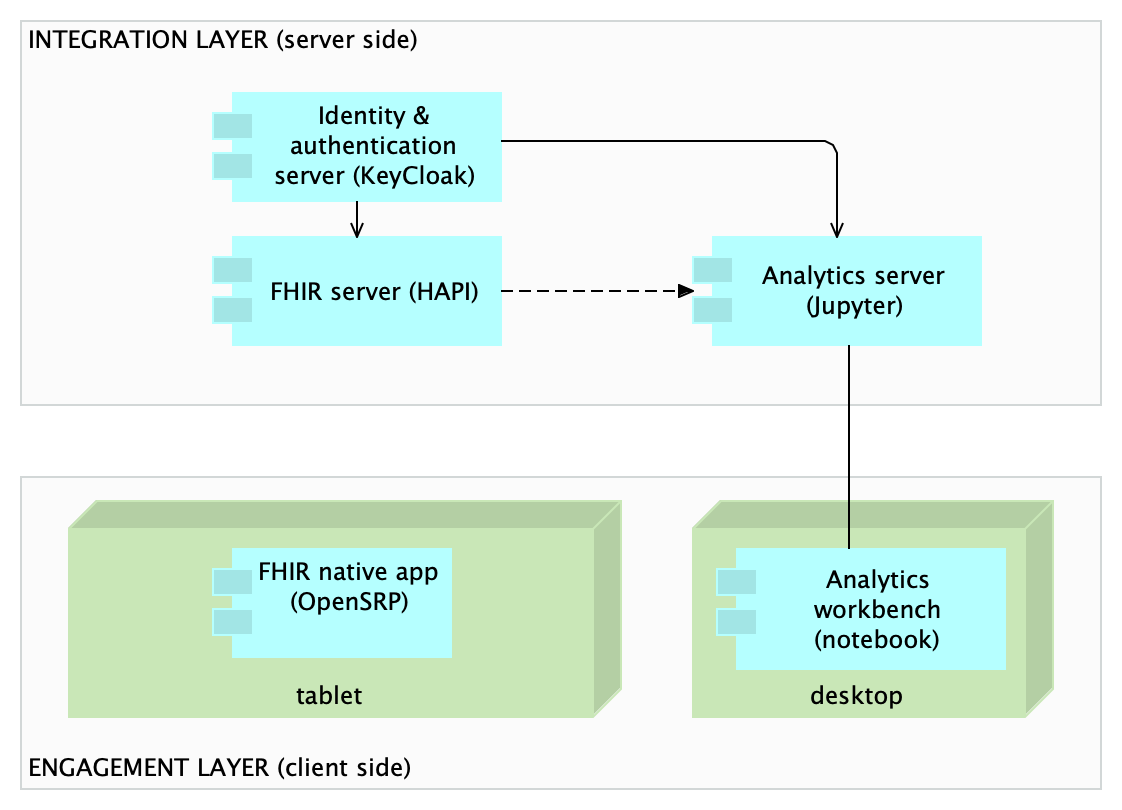
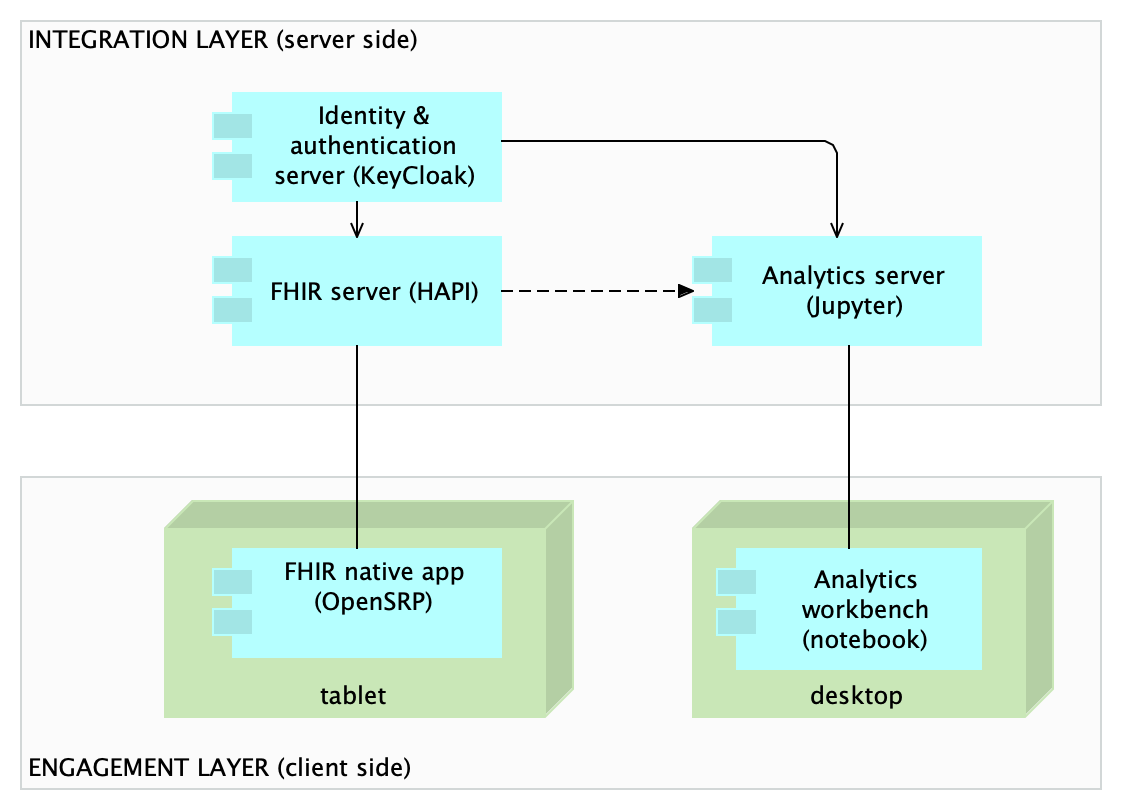
Update solution design

diff --git a/docs/id-690b66a0f4024b0fb014f7e801f7ae23/elements/id-e7940186345043c786f6ed40f4dd4683.html b/docs/id-690b66a0f4024b0fb014f7e801f7ae23/elements/id-e7940186345043c786f6ed40f4dd4683.html
@@ -1,0 +1,79 @@
+<!DOCTYPE HTML PUBLIC "-//W3C//DTD HTML 4.01 Transitional//EN" "http://www.w3.org/TR/html4/loose.dtd">
+<html class="frame" lang="en">
+<head>
+	<meta http-equiv="Content-Type" content="text/html;charset=utf-8">
+	<title></title>
+
+	<!-- JQUERY (use 1.x branch to be compatible with IE 6/7/8) -->
+	<script type="text/javascript" src="../../lib/jquery/js/jquery-1.11.2.min.js"></script>
+	<!-- BOOTSTRAP -->
+	<link type="text/css" rel="stylesheet" href="../../lib/bootstrap/css/bootstrap.min.yeti.css">
+	<script type="text/javascript" src="../../lib/bootstrap/js/bootstrap-3.3.2.min.js"></script>
+	<!-- REPORT SPECIFIC -->
+	<link type="text/css" rel="stylesheet" href="../../css/model.css">
+	<link type="text/css" rel="stylesheet" href="../../css/i18n.css">
+	<script type="text/javascript" src="../../js/frame.js"></script>
+	<script type="text/javascript" src="../../js/imageMapResizer.min.js"></script>
+</head>
+
+<body>
+	<div class="panel panel-default root-panel">
+
+		<div class="panel-heading root-panel-heading">
+            <!-- Name -->
+               <b class="i18n-elementtype-AssociationRelationship"></b>
+            <!-- If a View with Viewpoint -->
+			   (<span class="i18n-elementtype-AssociationRelationship"></span>)
+			   <a class="glyphicon glyphicon-info-sign" id="hint-AssociationRelationship" target="hint"></a>
+		</div>
+
+		<div class="panel-body root-panel-body">
+		    <!-- If this is a digram model (has children and no bounds) show the image -->
+
+			<div role="tabpanel">
+				<!-- Nav tabs -->
+				<ul class="nav nav-tabs" role="tablist">
+                    <!-- Purpose / Documentation / Content -->
+					   <li role="presentation" class="active"><a href="#documentation" aria-controls="documentation" role="tab" data-toggle="tab" class="i18n-documentation"></a></li>
+
+                    <!-- Properties -->
+                    <li role="presentation"><a href="#properties" aria-controls="properties" role="tab" data-toggle="tab" class="i18n-properties"></a></li>
+
+				</ul>
+
+				<!-- Tab panes -->
+				<div class="tab-content">
+					<div role="tabpanel" class="tab-pane active" id="documentation">
+							<br>
+							<b class="i18n-relation-source"></b>
+								<a href="../elements/id-9b17db97efc44b18bf2f59b6caa15cba.html" target="element">
+									FHIR native app (OpenSRP)
+								</a>
+							<br>
+							<b class="i18n-relation-target"></b>
+								<a href="../elements/id-83d1a8c7b3fb4cd18c77c8c075b83e35.html" target="element">
+									FHIR server (HAPI)
+								</a>
+							<br>
+							<br>
+						<div class="convertlinks documentation" style="white-space:pre-wrap"></div>
+					</div>
+					<div role="tabpanel" class="tab-pane" id="properties">
+						<table class="table table-striped table-hover table-condensed">
+							<thead>
+								<tr>
+									<th class="i18n-key"></th>
+									<th class="i18n-value"></th>
+								</tr>
+							</thead>
+							<tbody>
+							</tbody>
+						</table>
+					</div>
+			  </div>
+			</div>
+		</div>
+	</div>
+	<script type="text/javascript">imageMapResize();</script>
+</body>
+</html>

diff --git a/docs/id-690b66a0f4024b0fb014f7e801f7ae23/views/id-6e4ea18f657c4496b2c22b4d96d46578.html b/docs/id-690b66a0f4024b0fb014f7e801f7ae23/views/id-6e4ea18f657c4496b2c22b4d96d46578.html
@@ -33,12 +33,12 @@
 		    <!-- If this is a digram model (has children and no bounds) show the image -->
 			   <img class="diagram" src="../images/id-6e4ea18f657c4496b2c22b4d96d46578.png" alt="Solution design - FHIR native" usemap="#id-6e4ea18f657c4496b2c22b4d96d46578map"/>
 			   <map name="id-6e4ea18f657c4496b2c22b4d96d46578map">
-				  						<area shape="rect" coords="716,548,1006,670" href="../elements/id-d295ec7d391b47e4aa6af11d417d89bb.html"  target="element">
+				  						<area shape="rect" coords="716,548,982,670" href="../elements/id-d295ec7d391b47e4aa6af11d417d89bb.html"  target="element">
 
 				  				<area shape="rect" coords="692,500,1054,718" href="../elements/id-8f479b1fd8f340bdb697aec2c45437a8.html"  target="element">
-				  						<area shape="rect" coords="212,548,452,658" href="../elements/id-9b17db97efc44b18bf2f59b6caa15cba.html"  target="element">
+				  						<area shape="rect" coords="212,548,502,658" href="../elements/id-9b17db97efc44b18bf2f59b6caa15cba.html"  target="element">
 
-				  				<area shape="rect" coords="68,500,622,718" href="../elements/id-2d840145f23c492ca4c12069c0972139.html"  target="element">
+				  				<area shape="rect" coords="164,500,574,718" href="../elements/id-2d840145f23c492ca4c12069c0972139.html"  target="element">
 
 				          <area shape="rect" coords="20,476,1102,790" href="../objects/id-81148f1352aa42f991f5244d6b322329.html" target="element" >
 				  				<area shape="rect" coords="212,92,502,202" href="../elements/id-1a2484831fa74ca99f09a0a3a4c10aa3.html"  target="element">
@@ -207,6 +207,14 @@ Data from CoT MySQL database is transformed with Python CLI transformer is speci
 																				<td> <a href="../elements/id-2d840145f23c492ca4c12069c0972139.html" target="element"> tablet </a> </td>
 																				<td> <a href="../elements/id-9b17db97efc44b18bf2f59b6caa15cba.html" target="element"> FHIR native app (OpenSRP) </a> </td>
 																			</tr>
+
+																					<tr>
+																						<td> <a href="../elements/id-e7940186345043c786f6ed40f4dd4683.html" target="element">  </a> </td>
+																						<td> <a href="../elements/id-e7940186345043c786f6ed40f4dd4683.html" target="element" class="i18n-elementtype-AssociationRelationship">
+																						</a> </td>
+																						<td> <a href="../elements/id-9b17db97efc44b18bf2f59b6caa15cba.html" target="element"> FHIR native app (OpenSRP) </a> </td>
+																						<td> <a href="../elements/id-83d1a8c7b3fb4cd18c77c8c075b83e35.html" target="element"> FHIR server (HAPI) </a> </td>
+																					</tr>
 
 													
 																			<tr>

diff --git a/docs/id-690b66a0f4024b0fb014f7e801f7ae23/elements/model.html b/docs/id-690b66a0f4024b0fb014f7e801f7ae23/elements/model.html
@@ -273,6 +273,8 @@
 										dataRelationships.push({id:"id-0ade79b017b5410093c62c2fd346219b", type:"AssociationRelationship", specialization:decodeURL(""), name:decodeURL(""), documentation:decodeURL(""), sourceid:"id-65147c079d1d457f945ccfab4e0853d8", targetid:"id-d295ec7d391b47e4aa6af11d417d89bb"});
 									dataFoldersContent.push({folderid:"id-8dd70376c36446d1885f3298c24983eb", contentid:"id-ac43f1fb0b164ca7a38f2e476413f657", contenttype:"RealizationRelationship"});
 										dataRelationships.push({id:"id-ac43f1fb0b164ca7a38f2e476413f657", type:"RealizationRelationship", specialization:decodeURL(""), name:decodeURL(""), documentation:decodeURL(""), sourceid:"id-2d840145f23c492ca4c12069c0972139", targetid:"id-9b17db97efc44b18bf2f59b6caa15cba"});
+									dataFoldersContent.push({folderid:"id-8dd70376c36446d1885f3298c24983eb", contentid:"id-e7940186345043c786f6ed40f4dd4683", contenttype:"AssociationRelationship"});
+										dataRelationships.push({id:"id-e7940186345043c786f6ed40f4dd4683", type:"AssociationRelationship", specialization:decodeURL(""), name:decodeURL(""), documentation:decodeURL(""), sourceid:"id-9b17db97efc44b18bf2f59b6caa15cba", targetid:"id-83d1a8c7b3fb4cd18c77c8c075b83e35"});
 
 								dataFoldersContent.push({folderid:"id-690b66a0f4024b0fb014f7e801f7ae23", contentid:"id-8f8b54a5ea8445a1996c48efa7af5b50", contenttype:"Folder"});
 								dataFolders.push({id:"id-8f8b54a5ea8445a1996c48efa7af5b50", type:"Folder", name:decodeURL("Views"), documentation:decodeURL("")});
@@ -389,6 +391,8 @@
 
 												
 																				dataViewsContent.push({viewid:"id-6e4ea18f657c4496b2c22b4d96d46578", contentid:"id-ac43f1fb0b164ca7a38f2e476413f657", contenttype:"RealizationRelationship"});
+
+																						dataViewsContent.push({viewid:"id-6e4ea18f657c4496b2c22b4d96d46578", contentid:"id-e7940186345043c786f6ed40f4dd4683", contenttype:"AssociationRelationship"});
 
 														
 																				dataViewsContent.push({viewid:"id-6e4ea18f657c4496b2c22b4d96d46578", contentid:"id-2b49db0bd6704ef1b5a7341d8825ccfe", contenttype:"RealizationRelationship"});

diff --git a/docs/id-690b66a0f4024b0fb014f7e801f7ae23/objects/id-81148f1352aa42f991f5244d6b322329.html b/docs/id-690b66a0f4024b0fb014f7e801f7ae23/objects/id-81148f1352aa42f991f5244d6b322329.html
@@ -120,6 +120,14 @@
 																		<td> <a href="../elements/id-9b17db97efc44b18bf2f59b6caa15cba.html" target="element"> FHIR native app (OpenSRP) </a> </td>
 																	</tr>
 
+																			<tr>
+																				<td> <a href="../elements/id-e7940186345043c786f6ed40f4dd4683.html" target="element">  </a> </td>
+																				<td> <a href="../elements/id-e7940186345043c786f6ed40f4dd4683.html" target="element" class="i18n-elementtype-AssociationRelationship">
+																				</a> </td>
+																				<td> <a href="../elements/id-9b17db97efc44b18bf2f59b6caa15cba.html" target="element"> FHIR native app (OpenSRP) </a> </td>
+																				<td> <a href="../elements/id-83d1a8c7b3fb4cd18c77c8c075b83e35.html" target="element"> FHIR server (HAPI) </a> </td>
+																			</tr>
+
 											
 																	<tr>
 																		<td> <a href="../elements/id-2b49db0bd6704ef1b5a7341d8825ccfe.html" target="element">  </a> </td>

diff --git a/docs/index.html b/docs/index.html
@@ -257,6 +257,10 @@
 															<span class="i18n-elementtype-RealizationRelationship"></span>
 														(tablet - FHIR native app (OpenSRP)) 
 													</a></li>
+													<li class="tree-element "><a href="id-690b66a0f4024b0fb014f7e801f7ae23/elements/id-e7940186345043c786f6ed40f4dd4683.html" target="element">
+															<span class="i18n-elementtype-AssociationRelationship"></span>
+														(FHIR native app (OpenSRP) - FHIR server (HAPI)) 
+													</a></li>
 
 									</ul>
 								</li>
